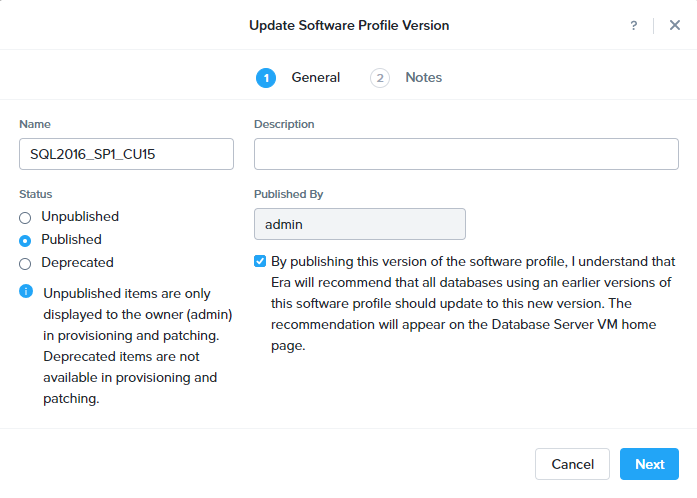
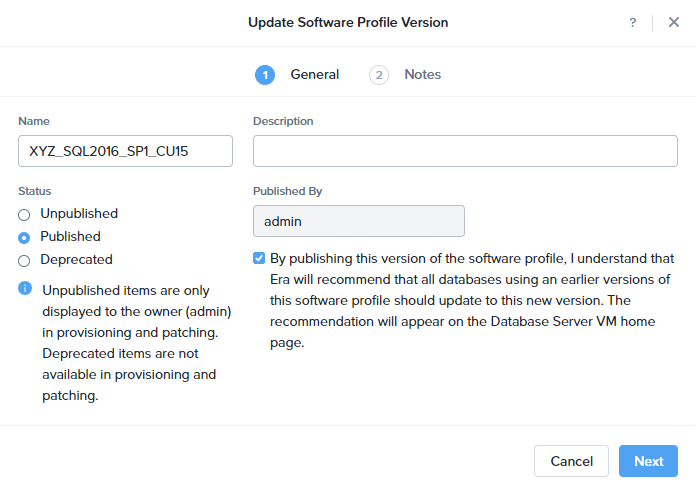
1-15-21.1
Era patching updates.

diff --git a/patch_sql/patch_sql.rst b/patch_sql/patch_sql.rst
@@ -16,14 +16,6 @@ Links
 
       .. figure:: images/1.png
 
-**Prerequisites:** Completion of :ref:`era_mssql`
-
-**(Optional) Pre-requisite:** N/A
-
-**Expected Module Duration:** 60 minutes
-
-**Covered Test IDs:** N/A
-
 Creating a Software Profile Version
 +++++++++++++++++++++++++++++++++++
 
@@ -31,7 +23,7 @@ A software profile versions are created in Era to support patching of SQL Server
 
 #. Within Era, select **Profiles** from the drop-down menu.
 
-#. On the left-hand side, select **Software**, and then click on the software profile under which you wish to create a new version (i.e. *Initials*\ _MSSQL_2016)
+#. On the left-hand side, select **Software**, and then click on the software profile under which you wish to create a new version (i.e. *Initials*\ _MSSQL_2016).
 
 #. Click **Create**. The *Create Software Profile Version* window appears.
 
@@ -52,9 +44,9 @@ After profile creation is successful, you must publish the profile to make the p
 
 #. Within Era, select **Profiles** from the drop-down menu.
 
-#. On the left-hand side, select **Software**, and then click on the software profile under which you wish to update the version (i.e. `MSSQL_2016`).
+#. On the left-hand side, select **Software**, and then click on the *Initials*\ _MSSQL_2016 software profile.
 
-#. Select the *SQL2016_SP1_CU15* profile version, and click **Update**. The *Update Software Profile Version* window appears.
+#. Select the *Initials*\ _SQL2016_SP1_CU15 profile version, and click **Update**. The *Update Software Profile Version* window appears.
 
 #. In the *General* step, click on **Published**, and then click the check box for *By publishing this version of the software profile, I understand that Era will recommend that all databases using an earlier versions of this software profile should update to this new version. The recommendation will appear on the Database Server VM home page*.
 
@@ -71,7 +63,7 @@ Perform the following procedure to apply updates from the available software pro
 
 #. Within Era, select **Database Server VMs** from the drop-down list.
 
-#. Click on **List** from the left-hand side, then click the database server VM for which you want to update the software profile version (ex. `FiestaDB_Dev`). The *Database Server VM Summary* page appears.
+#. Click on **List** from the left-hand side, then click the *UserXX*\ **-MSSQLSourceVM** database server VM for which you want to update the software profile version. The *Database Server VM Summary* page appears.
 
 #. Go to the *Software Profile Version* widget, and click **Update**. The *Update Database Server VM* window appears.
 
@@ -83,39 +75,18 @@ Perform the following procedure to apply updates from the available software pro
 
 #. Select the following in the indicated fields:
 
-   - **Update to Software Profile Version**. SQL2016_SP1_CU15
+   - **Software Profile** *Initials*\ _MSSQL_2016
+
+   - **Version** *Initials*\ _SQL2016_SP1_CU15
 
    - **Start Update** Now
 
    .. figure:: images/4.png
 
-#. Confirm the update by typing **FiestaDB_Dev** in the text box, and click **Update**.
+#. Confirm the update by typing *UserXX*\ **-MSSQLSourceVM** in the text box, and click **Update**.
 
 A message appears at the top indicating that the operation to update a database has started. Click the message to monitor the progress of the operation. Alternatively, select **Operations** in the drop-down list of the main menu to monitor the progress of the operation.
 
-Patching a SQL Server Database Server Cluster
-+++++++++++++++++++++++++++++++++++++++++++++
+#. You can demonstrate the patch process was successful, by opening MS SQL Server Management Studio, and observing the server version and comparing that version with the SQL Server 2016 build versions web page.
 
-Perform the following procedure to apply updates from the available software profile versions to a provisioned/registered database server cluster (Windows cluster). Patches are applied in a rolling upgrade.
-
-#. Within Era, select **Database Server VMs** from the drop-down list.
-
-#. Go to **List** from the left-hand side, then click the database server cluster for which you want to update the software profile version (ex. `Fiesta01`). The *Server Cluster Summary* page appears.
-
-#. Go to the *Software Profile Version* widget and click **Update**. The *Update Windows Cluster* window appears.
-
-   The *Software Profile Version* widget displays the current version, recommended version, and the status of the software profile version.
-
-   .. Note::
-
-      The `Update` option only appears when a new software profile version is available.
-
-#. Select the following in the indicated fields:
-
-   - **Update to Software Profile Version**. SQL2016_SP1_CU15
-
-   - **Start Update** Now
-
-   .. figure:: images/5.png
-
-A message appears at the top indicating that the operation to update a database has started. Click the message to monitor the progress of the operation. Alternatively, select Operations in the drop-down list of the main menu to monitor the progress of the operation.
+   .. figure:: images/4a.png
